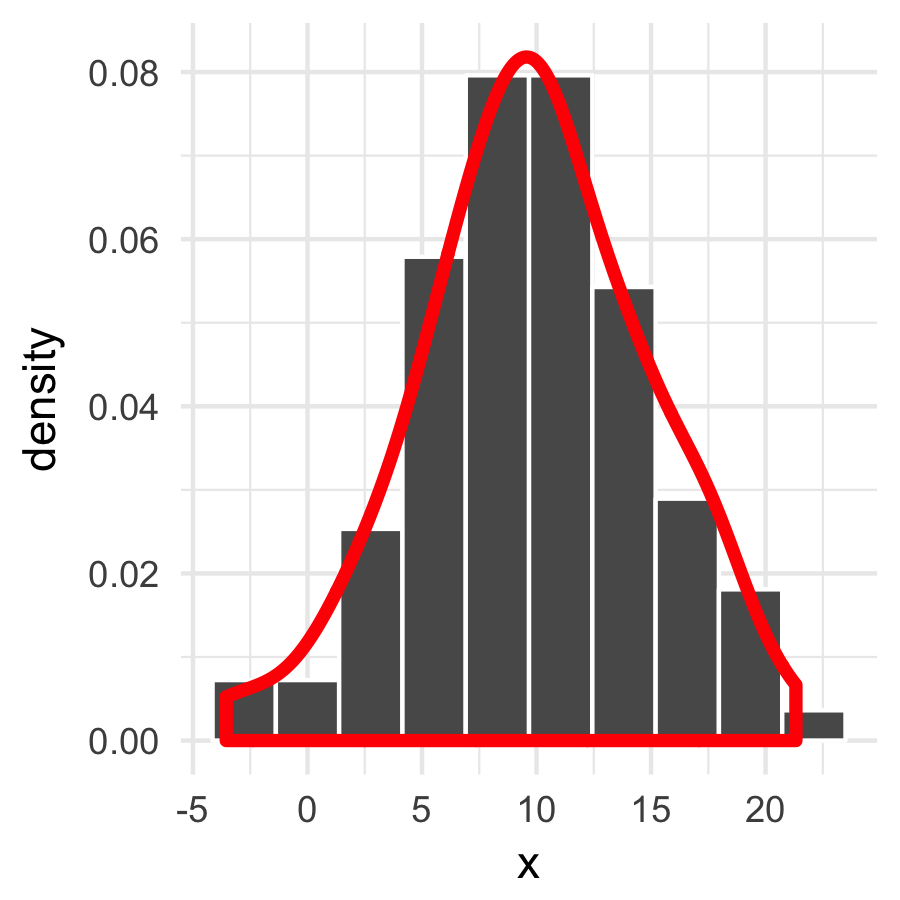
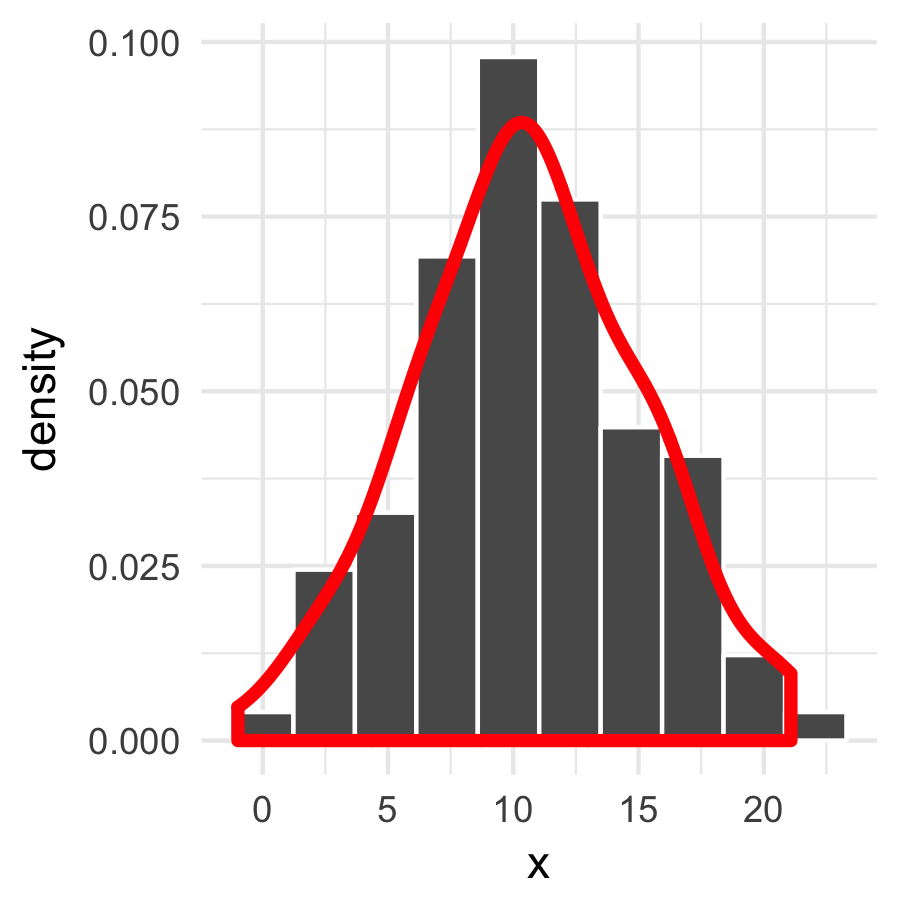
minor

diff --git a/_sessions/D1S3_Statistics/Statistics.html b/_sessions/D1S3_Statistics/Statistics.html
@@ -851,7 +851,7 @@ coin_flips
 ```
 
 ```
-##  [1] "H" "H" "T" "T" "H" "H" "T" "H" "T" "H"
+##  [1] "T" "T" "H" "H" "T" "H" "T" "H" "H" "H"
 ```
 
 ```r
@@ -906,7 +906,7 @@ length(birthdays)
 ```
 
 ```
-## [1] 15
+## [1] 20
 ```
 
 
@@ -933,7 +933,7 @@ mysamp[1:5]  # First 5 values
 ```
 
 ```
-## [1]  9.220  9.373 14.722 13.789 13.504
+## [1] 10.501  9.980 11.936  2.309  6.631
 ```
 
 ```r
@@ -941,7 +941,7 @@ mean(mysamp) # Mean
 ```
 
 ```
-## [1] 9.839
+## [1] 10.56
 ```
 
 ```r
@@ -949,7 +949,7 @@ sd(mysamp)   # Standard deviation
 ```
 
 ```
-## [1] 4.964
+## [1] 4.513
 ```
 
 
@@ -1032,268 +1032,15 @@ Use random sampling functions to run simulations
 
 ]
 
----
-
-## Live Demo &amp; Pratical
-
-&lt;p&gt;&lt;font size=6&gt;&lt;b&gt;&lt;a href="https://therbootcamp.github.io/BaselRBootcamp_2018April/_sessions/D2S2_Statistics/Statistics_practical.html"&gt;Link to Statistics practical&lt;/a&gt;
-
 
 ---
+&lt;br&gt;
 
+## Questions?
 
+&lt;br&gt;&lt;br&gt;
 
----
-
-.pull-left45[
-
-### Generalised linear model
-
-
-
-
-]
-
-
-
-.pull-right5[
-
-
-
-]
-
-
-
-
-
----
-# Examples with ChickWeight Data
-
-.pull-left4[
-
-
-```r
-ChickWeight
-```
-
-
-```
-##   weight Time Chick Diet
-## 1     59    4    30    2
-## 2     93    8    26    2
-## 3     79    6    40    3
-## 4    145   12    28    2
-## 5     48    4     5    1
-##  [ reached getOption("max.print") -- omitted 1 row ]
-```
-
-
-
-]
-
-
-.pull-right55[
-
-![Source: http://awallpapersimages.com/wp-content/uploads/2016/07/Chicken-cute-baby-image.jpg](https://raw.githubusercontent.com/therbootcamp/therbootcamp.github.io/master/_sessions/_image/cutechicken.jpg)
-
-]
-
-
-
----
-# Final notes
-
-.pull-left7[
-
-- When using a hypothesis test, always ask:
-
-&gt; What are the arguments?
-
-&gt; What format or class should the arguments be?
-
-- When in doubt, always look at the help files and examples at the end.
-
-- Save hypothesis tests as new objects, then apply `names()` to see what elements it contains, then extract what you want with `$`
-
-
-```r
-# Run test and save as test_A
-test_A &lt;- t.test(formula = weight ~ Diet,
-                 data = ChickWeight %&gt;%
-                        filter(Diet %in% c(1, 2)))
-
-names(test_A)  # What is in the object?
-
-test_A$statistic # Ah ok! Show me the test statistic
-```
-
-
-
-]
-
-.pull-right25[
-
-`?t.test`
-
-&lt;img src="https://raw.githubusercontent.com/therbootcamp/therbootcamp.github.io/master/_sessions/_image/ttesthelp_ss.png" width="100%" style="display: block; margin: auto;" /&gt;
-
-#### Questions?
-
-]
-
-
-
-
-
----
-# Two types of statistics: Descriptive and Inferential
-
-.pull-left4[
-
-### Inferential
-
-- Used to make inferences about a larger population. Typically done in tandem with a *hypothesis test*
-
-#### Examples
-
-| Hypothesis Test| R Function|
-|------:|----:|
-|     T-test|    `t.test()`|
-|     Correlation Test|    `cor.test()`|
-|     Chi-Square Test|   `chisq.test()`|
-|     ANOVA, Post-hoc|    `aov(), TukeyHSD()`|
-
-- Hypothesis tests typically return lists of outputs (e.g.; p-value, test statistic)
-
-
-]
-
-.pull-right55[
-#### R implimentation
-
-
-```r
-t.test(x = c(4, 3, 6, 5, 3, 2),
-       mu = 0,
-       alternative = "two.sided")
-```
-
-```
-## 
-## 	One Sample t-test
-## 
-## data:  c(4, 3, 6, 5, 3, 2)
-## t = 6.4, df = 5, p-value = 0.001
-## alternative hypothesis: true mean is not equal to 0
-## 95 percent confidence interval:
-##  2.289 5.378
-## sample estimates:
-## mean of x 
-##     3.833
-```
-
-
-]
-
-
-
-
----
-# ANOVA with `aov()`
-
-.pull-left3[
-
-### ChickWeight data
-
-```r
-ChickWeight
-```
-
-
-```
-##   weight Time Chick Diet
-## 1     59    4    30    2
-## 2     93    8    26    2
-## 3     79    6    40    3
-## 4    145   12    28    2
-## 5     48    4     5    1
-##  [ reached getOption("max.print") -- omitted 1 row ]
-```
-
-]
-
-.pull-right6[
-
-### ANOVA
-
-&gt; Is there difference in weights based on Diet?
-
-- Applying `summary()` to an `aov` object prints a nice table.
-
-
-```r
-E &lt;- aov(formula = weight ~ Diet, # Formula
-         data = ChickWeight)      # Data in Chickweight
-
-summary(E)  # Sow a summary of the results
-```
-
-```
-##              Df  Sum Sq Mean Sq F value  Pr(&gt;F)    
-## Diet          3  155863   51954    10.8 6.4e-07 ***
-## Residuals   574 2758693    4806                    
-## ---
-## Signif. codes:  0 '***' 0.001 '**' 0.01 '*' 0.05 '.' 0.1 ' ' 1
-```
-
-]
-
----
-# Post-hoc tests with `TukeyHSD()`
-
-.pull-left4[
-
-&gt; Which specific pairs of Diets differed?
-
-### Step 1: Create aov object
-
-- Apply `TukeyHSD()` to an `aov` object to get post-hoc tests.
-
-
-```r
-# Create an aov object called D
-
-D &lt;- aov(formula = weight ~ Diet,
-         data = ChickWeight)
-```
-
-]
-
-.pull-right55[
-
-### Step 2: Apply `TukeyHSD()` to object
-
-```r
-TukeyHSD(D)  # Conduct post-hoc tests
-```
-
-```
-##   Tukey multiple comparisons of means
-##     95% family-wise confidence level
-## 
-## Fit: aov(formula = weight ~ Diet, data = ChickWeight)
-## 
-## $Diet
-##       diff      lwr   upr  p adj
-## 2-1 19.971  -0.2998 40.24 0.0552
-## 3-1 40.305  20.0335 60.58 0.0000
-## 4-1 32.617  12.2354 53.00 0.0003
-## 3-2 20.333  -2.7268 43.39 0.1058
-## 4-2 12.646 -10.5116 35.80 0.4954
-##  [ reached getOption("max.print") -- omitted 1 row ]
-```
-
-]
+# [Statistics Practical](https://therbootcamp.github.io/Erfurt_2018June/_sessions/D1S3_Statistics/Statistics_practical.html)
     </textarea>
 <script src="https://remarkjs.com/downloads/remark-latest.min.js"></script>
 <script>var slideshow = remark.create({

diff --git a/_sessions/D2S2_MachineLearning/MachineLearning.html b/_sessions/D2S2_MachineLearning/MachineLearning.html
@@ -713,7 +713,7 @@ class_mod &lt;- train(form = factor(diagnosis) ~ .,
 
 .pull-right4[
 
-See all &gt; 280 models on the [Caret Documentation Page](http://topepo.github.io/caret/available-models.html)
+[Caret Documentation Page](http://topepo.github.io/caret/available-models.html)
 
 &lt;img src="caret_models.jpg" width="1699" /&gt;
 
@@ -886,6 +886,9 @@ bas_pred[1:5]
 ## 12162  9029 12162  5808  5808
 ```
 
+Then summarise overall performance with `postResample()`
+
+
 ```r
 # Assess performance with postResample()
 postResample(pred = bas_pred, 
@@ -896,7 +899,6 @@ postResample(pred = bas_pred,
 ##      RMSE  Rsquared       MAE 
 ## 1583.4110    0.6516 1270.2859
 ```
-
 
 
 ]
@@ -921,7 +923,7 @@ ggplot(data = end,
   geom_smooth(method = "lm")
 ```
 
-&lt;img src="MachineLearning_files/figure-html/unnamed-chunk-50-1.png" style="display: block; margin: auto;" /&gt;
+&lt;img src="MachineLearning_files/figure-html/unnamed-chunk-51-1.png" style="display: block; margin: auto;" /&gt;
 
 
 ]
@@ -1011,7 +1013,6 @@ There are *many* other great features of caret we haven't touched
 
 Be sure to check out the **excellent** documentation site to learn all the details
 
-
 ]
 
 .pull-right45[
@@ -1025,6 +1026,12 @@ Be sure to check out the **excellent** documentation site to learn all the detai
 ---
 
 # Questions?
+&lt;br&gt;&lt;br&gt;&lt;br&gt;
+
+# [Machine Learning Practical](https://therbootcamp.github.io/Erfurt_2018June/_sessions/D2S2_MachineLearning/MachineLearning_practical.html)
+
+
+---
     </textarea>
 <script src="https://remarkjs.com/downloads/remark-latest.min.js"></script>
 <script>var slideshow = remark.create({
